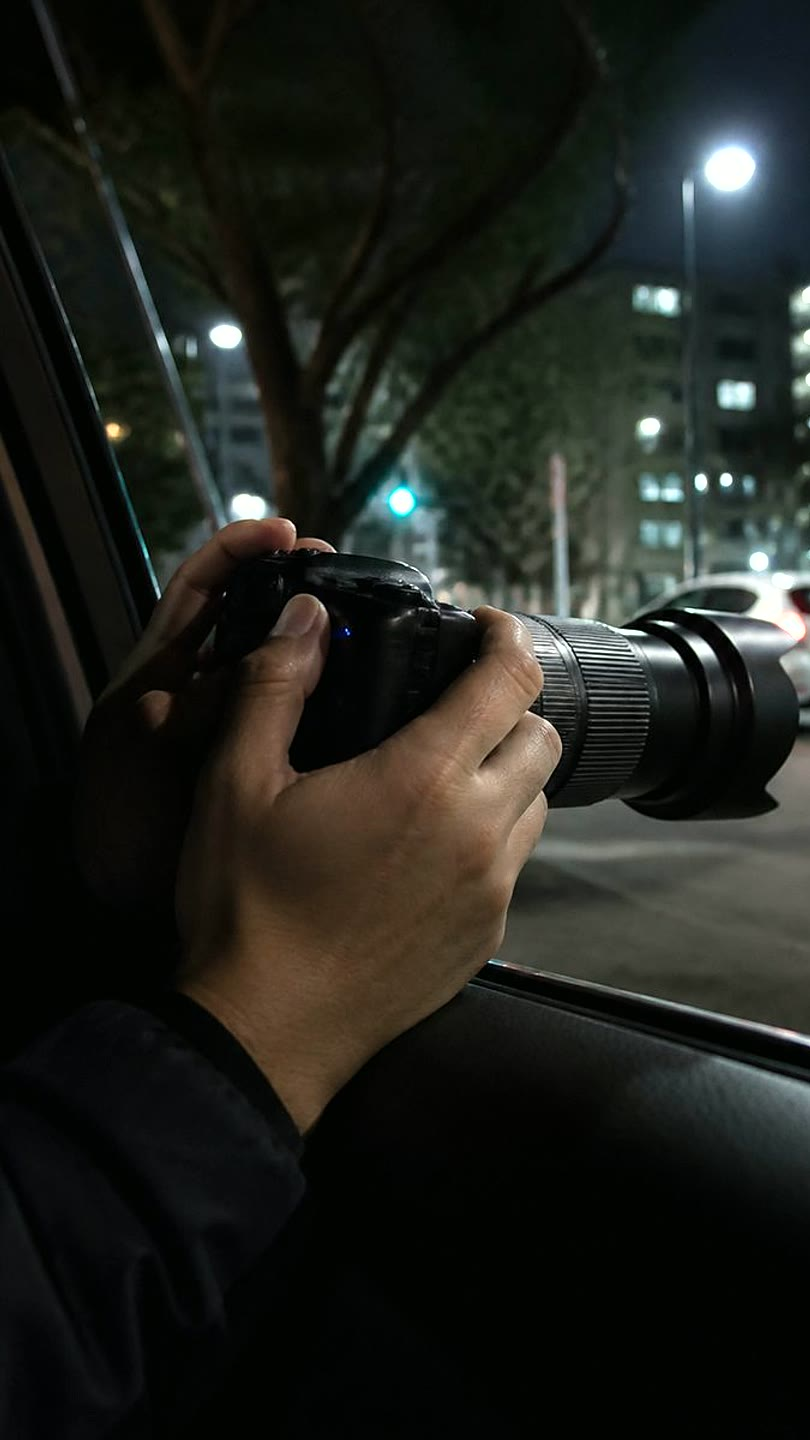
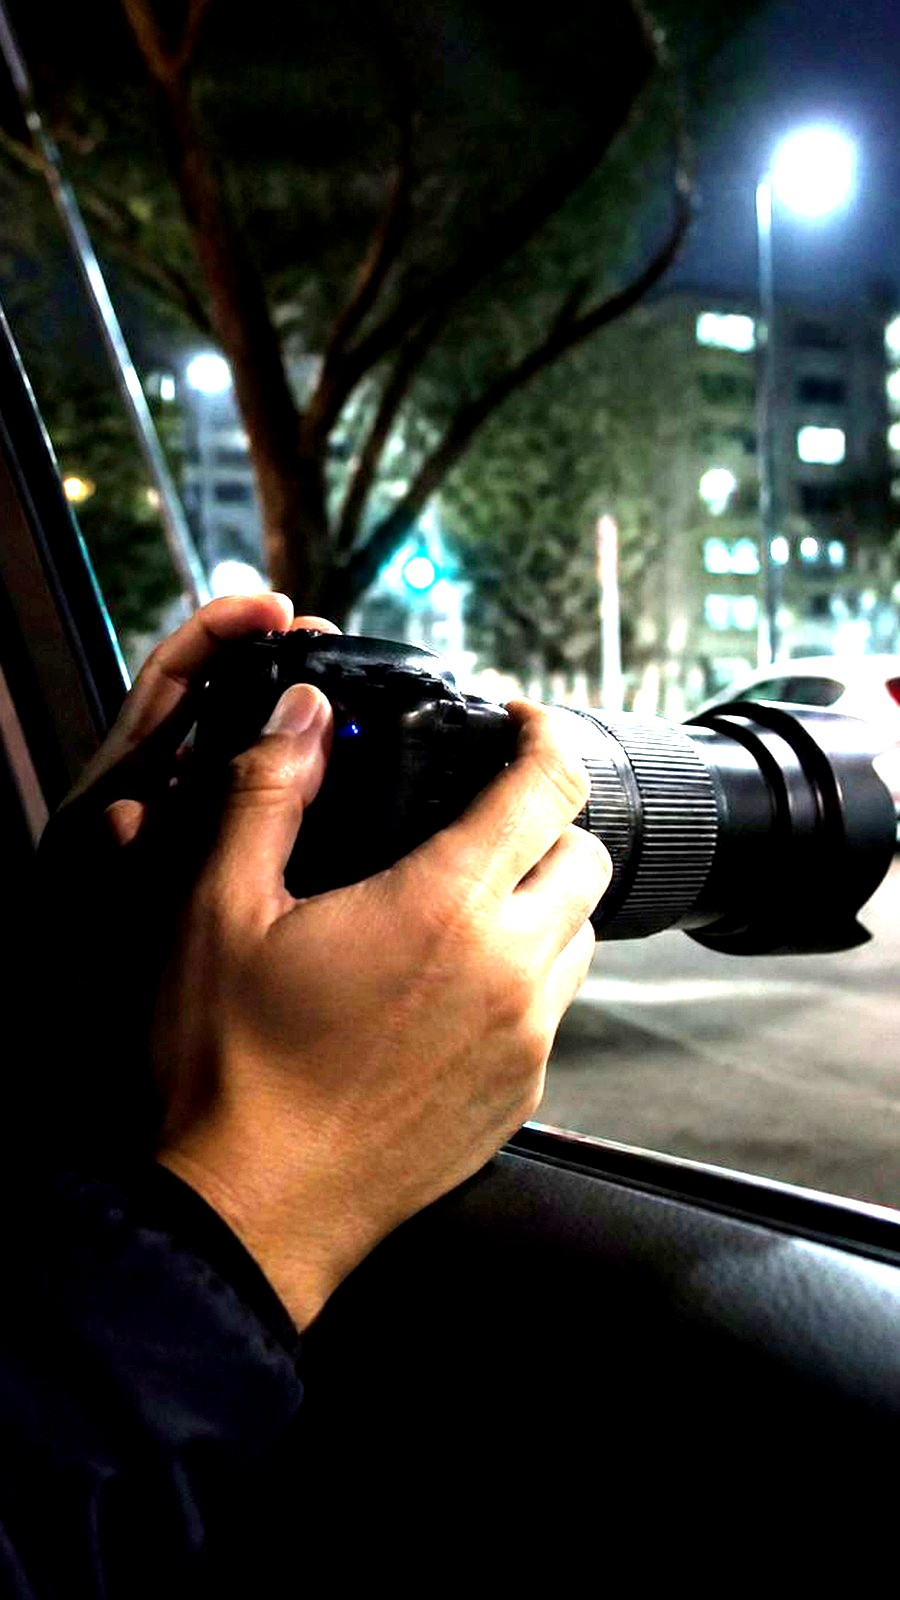
探偵LPのFV画像を寄り直し、改行とベールを調整する。
スマホで人物・二人・尾行・カメラが判別できる構図にし、コピーの改行も読みやすく固定する。

diff --git a/src/detective.css b/src/detective.css
@@ -243,8 +243,8 @@
   object-position: center center;
   opacity: 0;
   transition: opacity 0.85s ease;
-  /* 縦クロップ済み画像をそのまま見せる（暗くしすぎない） */
-  filter: none;
+  /* スマホでも主題が読めるよう、わずかに持ち上げる */
+  filter: brightness(1.06) contrast(1.04);
   pointer-events: none;
   user-select: none;
   -webkit-user-drag: none;
@@ -257,16 +257,16 @@
 .det-fv__veil {
   position: absolute;
   inset: 0;
-  /* 中央の写真はほぼそのまま。上下だけ文字可読用に落とす */
+  /* 写真の主題を優先。上下だけ文字・ドック用に落とす */
   background:
     linear-gradient(
       180deg,
-      rgba(0, 0, 0, 0.5) 0%,
-      rgba(0, 0, 0, 0.08) 22%,
-      rgba(0, 0, 0, 0) 40%,
-      rgba(0, 0, 0, 0.15) 58%,
-      rgba(0, 0, 0, 0.55) 78%,
-      rgba(0, 0, 0, 0.94) 100%
+      rgba(0, 0, 0, 0.42) 0%,
+      rgba(0, 0, 0, 0.04) 18%,
+      rgba(0, 0, 0, 0) 32%,
+      rgba(0, 0, 0, 0) 52%,
+      rgba(0, 0, 0, 0.28) 72%,
+      rgba(0, 0, 0, 0.88) 100%
     );
   pointer-events: none;
 }

diff --git a/src/pages/business/DetectivePage.tsx b/src/pages/business/DetectivePage.tsx
@@ -26,22 +26,22 @@ const storyBeats: ReadonlyArray<{
   {
     src: "/detective/fv/01-late.jpg",
     lines: ["最近、", "帰りが遅くなった。"],
-    focus: "center center",
+    focus: "center 38%",
   },
   {
     src: "/detective/fv/02-hide.jpg",
     lines: ["誰かと二人で、", "どこかへ向かっている。"],
-    focus: "center center",
+    focus: "center 55%",
   },
   {
     src: "/detective/fv/03-doubt.jpg",
-    lines: ["信じたい。でも、", "確かめたい。"],
-    focus: "center 40%",
+    lines: ["信じたい。", "でも、確かめたい。"],
+    focus: "center 36%",
   },
   {
     src: "/detective/fv/04-fact.jpg",
     lines: ["その疑いを、", "事実に変える。"],
-    focus: "center 45%",
+    focus: "center 48%",
   },
 ];
 
